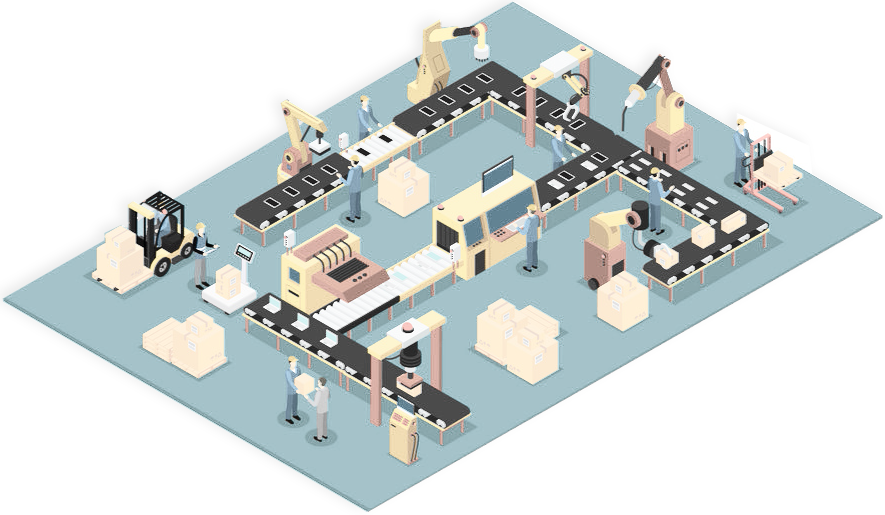
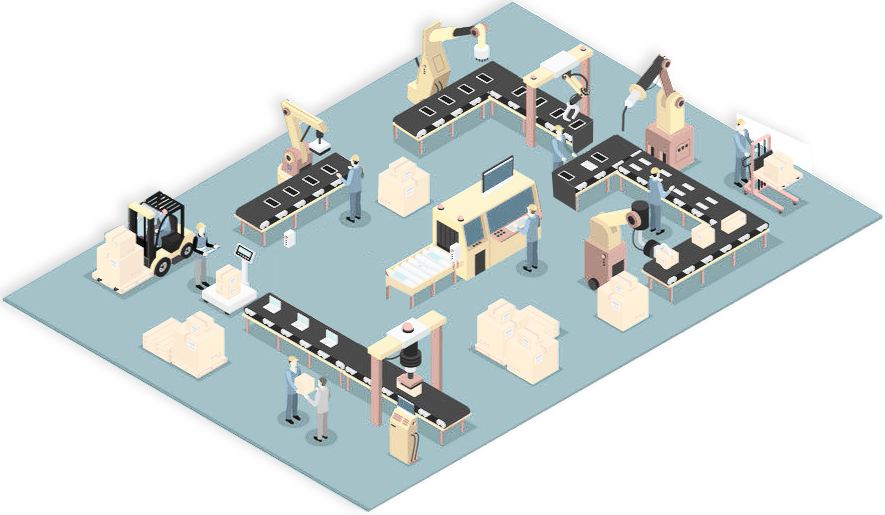
plant view changes made

diff --git a/src/Components/PlantView/PlantView.js b/src/Components/PlantView/PlantView.js
@@ -3,26 +3,122 @@ import factoryImage from './factoryImage.png';
 import { withRouter } from "react-router-dom";
 
 class PlantView extends Component {
+  constructor(props) {
+    super(props);
+    this.options = {
+        responsive: true
+    };
+    this.state = {
+      metricsAndStatus: {},
+      zoneName:"",
+      status: ""
+    };
+  }
 
   triggerNavigation = () => {
     this.props.history.push({ pathname: '/zoneView' }); 
+  
+
+  }
+
+  triggerZoneViewTable = () => {
+    fetch('https://iy78q5dt50.execute-api.us-west-2.amazonaws.com/Stage/GetMaterialMetrics ')
+      .then(resp => resp.json())
+      .then(response => {
+        this.setState({
+         metricsAndStatus:response,
+         zoneName: Object.keys(response)
+        })
+      });
+  }
+
+  componentDidMount() {
+    this.triggerZoneViewTable();
   }
 
   render() {
-   
+    const { zoneName } = this.state;
     return (
      
         <div>
           <div className="plant-view-heading">
-          {/* <img className="mapImage" src={mapLocation} alt="mapLocation"></img> */}
-          <div className="card-heading"><h1>Plant View</h1></div>
+            <div className="card-heading"><h1>Plant View</h1></div>
           </div>
-            <div>
-            {/* <Route path="/zoneView" exact component={zoneView} /> */}
-             <img onClick = {this.triggerNavigation} className="factoryImage" src={factoryImage} alt="factoryImage"></img>
+          <div className="factory-floor-plan">
+            <div className="floor-plan-wrapper">
+              <div className="zone-details">
+               
+                  { zoneName.length > 0  &&
+                    <div>
+                       <div className="gasket-installation">
+                        <div className="headings">{this.state.zoneName[0]}</div>
+                        <ul className="main-list">
+                          <li className="bullet-and-count">
+                            <div className="red"></div>
+                            <div className="count">
+                              {this.state.metricsAndStatus[this.state.zoneName[0]][0].count}
+                            </div>
+                          </li>
+                          <li className="bullet-and-count"><div className="green"></div><div className="count">{this.state.metricsAndStatus[this.state.zoneName[0]][1].count}</div></li>
+                          <li className="bullet-and-count"><div className="yellow"></div><div className="count">{this.state.metricsAndStatus[this.state.zoneName[0]][2].count}</div></li>
+                        </ul>
+                        <div className="arrow-down"></div>
+                      </div>
+                    
+                      <div className="cooling-system">
+                        <h7 className='cooling-heading'>{this.state.zoneName[1]}</h7>
+                        <ul className='main-list'>
+                          <li className="bullet-and-count"><div className="red"></div><div className="count">{this.state.metricsAndStatus[this.state.zoneName[1]][0].count}</div></li>
+                          <li className="bullet-and-count"><div className="green"></div><div className="count">{this.state.metricsAndStatus[this.state.zoneName[1]][1].count}</div></li>
+                          <li className="bullet-and-count"><div className="yellow"></div><div className="count">{this.state.metricsAndStatus[this.state.zoneName[1]][2].count}</div></li>
+                        </ul>
+                        <div className="cooling-arrow-down"></div>
+                      </div>
+                      
+                      <div className="sheet">
+                        <div className="headings">{this.state.zoneName[2]}</div>
+                        <ul className='main-list'>
+                        <li className="bullet-and-count"><div className="red"></div><div className="count">{this.state.metricsAndStatus[this.state.zoneName[2]][0].count}</div></li>
+                            <li className="bullet-and-count"><div className="green"></div><div className="count">{this.state.metricsAndStatus[this.state.zoneName[2]][1].count}</div></li>
+                            <li className="bullet-and-count"><div className="yellow"></div><div className="count">{this.state.metricsAndStatus[this.state.zoneName[2]][2].count}</div></li>
+                        </ul>
+                        <div className="arrow-down"></div>
+                      </div>
+
+                      <div className="cabinet">
+                        <div className="headings">{this.state.zoneName[3]}</div>
+                        <ul className='main-list'>
+                        <li className="bullet-and-count"><div className="red"></div><div className="count">{this.state.metricsAndStatus[this.state.zoneName[3]][0].count}</div></li>
+                            <li className="bullet-and-count"><div className="green"></div><div className="count">{this.state.metricsAndStatus[this.state.zoneName[3]][1].count}</div></li>
+                            <li className="bullet-and-count"><div className="yellow"></div><div className="count">{this.state.metricsAndStatus[this.state.zoneName[3]][2].count}</div></li>
+                        </ul>
+                        <div className="arrow-down"></div>
+                      </div>
+
+                      <div className="testing">
+                      <div className="headings">{this.state.zoneName[4]}</div>
+                      <ul className='main-list'>
+                        <li className="bullet-and-count"><div className="red"></div><div className="count">{this.state.metricsAndStatus[this.state.zoneName[4]][0].count}</div></li>
+                        <li className="bullet-and-count"><div className="green"></div><div className="count">{this.state.metricsAndStatus[this.state.zoneName[4]][1].count}</div></li>
+                        <li className="bullet-and-count"><div className="yellow"></div><div className="count">{this.state.metricsAndStatus[this.state.zoneName[4]][2].count}</div></li>
+                      </ul>
+                      <div className="testing-arrow-down"></div>
+                    </div>
+                  
+                  </div>
+
+                }
+                
+              </div>
+              <img onClick = {this.triggerNavigation} className="factoryImage" src={factoryImage} alt="factoryImage"></img>
+            </div>
+            
           </div>
-         
-        </div>
+          
+       
+       
+        
+      </div>
     )
   }
 }

diff --git a/src/Components/PlantView/_PlantView.scss b/src/Components/PlantView/_PlantView.scss
@@ -1,21 +1,140 @@
+$heightPrimary: 20px;
+$widthPrimary: 20px;
+
 .plant-view-heading {
     display: flex;
     width:100%;
 }
 
+
 .mapImage {
-    height:20px;
-    width:20px;
+    height:$heightPrimary;
+    width:$widthPrimary;
     margin-bottom: 2px;
 }
-
+.arrow-down,.cooling-arrow-down,.testing-arrow-down {
+    width: 0;
+    height: 0;
+    border-left: 6px solid transparent;
+    border-right: 6px solid transparent;
+    border-top: 12px solid black;
+   
+   
+  }
+  .arrow-down {
+    margin-left: 33px;
+    margin-top:-2px
+  }
+  
 .main-heading {
     font-weight: bold;
     margin-left: 5px;
+}
+.factory-floor-plan {
+    
+    width:650px;
+    position: relative;
+    margin: 0px auto;
+}
+.floor-plan-wrapper {
+    width: 650px;
+    position: relative;
+}
+.zone-details {
+    position: absolute;
+    z-index: 100;
+}
+.asset-list {
+    height:30px;
+}
+.headings {
+    font-size: 11px;
+    margin-left: 4px;
+    font-weight: bold;
+}
+.cooling-heading {
+    font-size: 10px;
+    font-weight: bold
+}
+.gasket-installation,.cooling-system,.testing,.sheet,.cabinet {
+    border: 1px solid;
+    border-radius: 10px;
+    width: 80px;
+    height: 100px;
+    position: relative;
+    background-color: white;
+}
+.gasket-installation {
+margin-left: 281px;
+margin-top: 25px;
+}
+.cooling-system {
+    margin-left: 380px;
+    margin-top: -11em;
+}
+ul {
+    list-style: none;
+}
+.red,.green,.yellow {
+    width: 8px;
+    height: 10px;
+    border-radius: 30px;
+   
+
+}
+.red {
+
+background-color: $warning-yellow;
+
+}
+.green {
+
+    background-color: $success-green;
+
+}
+.yellow {
+    background-color: $highlight-blue;
+}
+
+.bullet-and-count {
+    display: flex;
+}
+.count {
+    margin-left: 2px;
+}
+.main-list {
+    padding-left: 5px;
+}
+.sheet {
+    margin-left: 150px;
+    margin-top: -43px;
+}
+.cooling-arrow-down {
+    margin-left: 33px;
+    margin-top: -11px
+}
+.cabinet {
+    margin-left: 224px;
+}
+.testing {
+    margin-left: 485px;
+    margin-top: -201px;
+}
+.testing-heading {
+    margin-top : 9px
+}
+.testing-list {
+    margin-top: 7px;
+    padding-left: 5px;
+}
+.testing-arrow-down {
+    margin-left: 33px;
+    margin-top : 23px;
 }
 
 .factoryImage {
     width: 100%;
     max-width: 650px;
     background-color: white;
+    z-index: 0;
 }

diff --git a/src/Components/AssetMetrics/AssetMetrics.js b/src/Components/AssetMetrics/AssetMetrics.js
@@ -14,10 +14,6 @@ class AlertMetrics extends Component {
         return (
             <div className="asset-tracked-graph">
                 <div className="card-heading">
-                    {/* <span className="checkmark">
-                        <div className="checkmark_stem"></div>
-                        <div className="checkmark_kick"></div>
-                    </span> */}
                     <div className="heading"><h1>Asset Metrics</h1></div>
                 </div>
                 <div className="db-data-metrics-contents">

diff --git a/src/Components/ZoneDatatable/ZoneDatatable.js b/src/Components/ZoneDatatable/ZoneDatatable.js
@@ -21,9 +21,9 @@ export class ZoneDatatable extends React.Component {
   
   setStatusStyle(cell, row){
      let styleClassName = '';
-      if(row.status.toLowerCase() === 'critical'){
+      if(row.status.toLowerCase() === 'completed'){
         styleClassName = 'text-danger';
-      } else if(row.status.toLowerCase() === 'non-critical'){
+      } else if(row.status.toLowerCase() === 'in progress'){
         styleClassName = 'text-primary';
       } else if(row.status.toLowerCase() ==='waiting'){
         styleClassName = 'text-warning';
